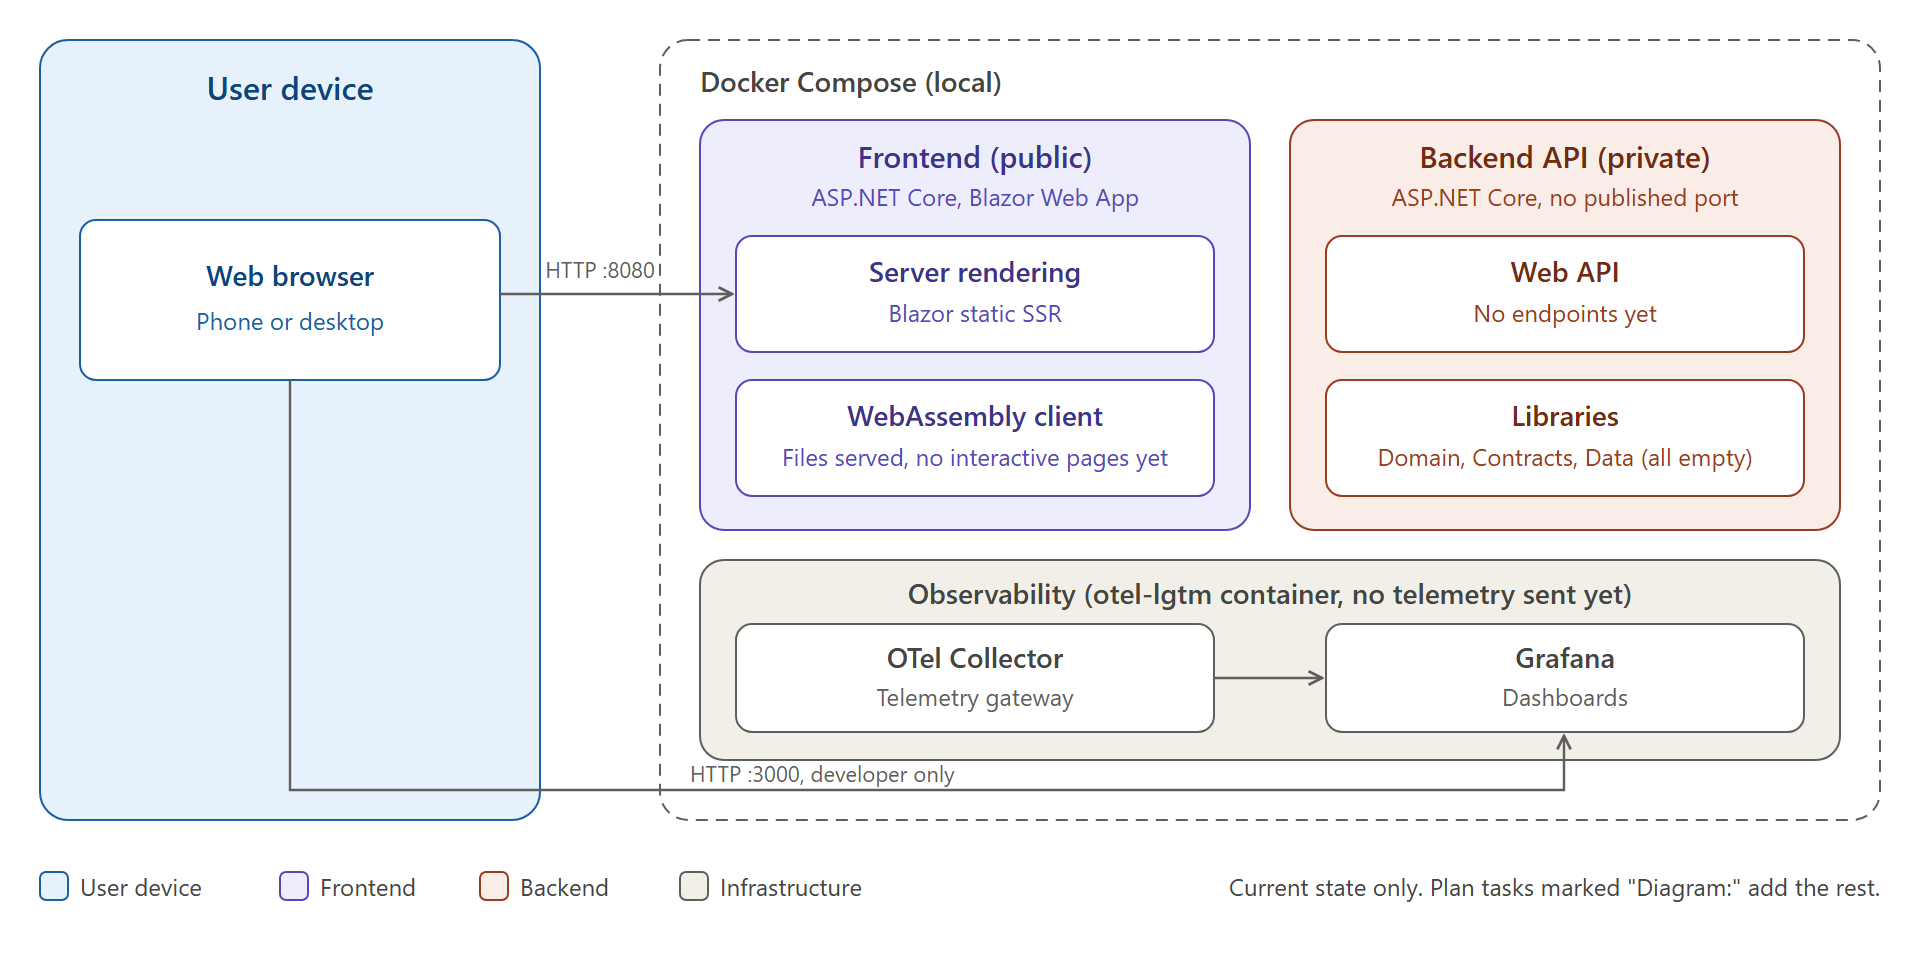
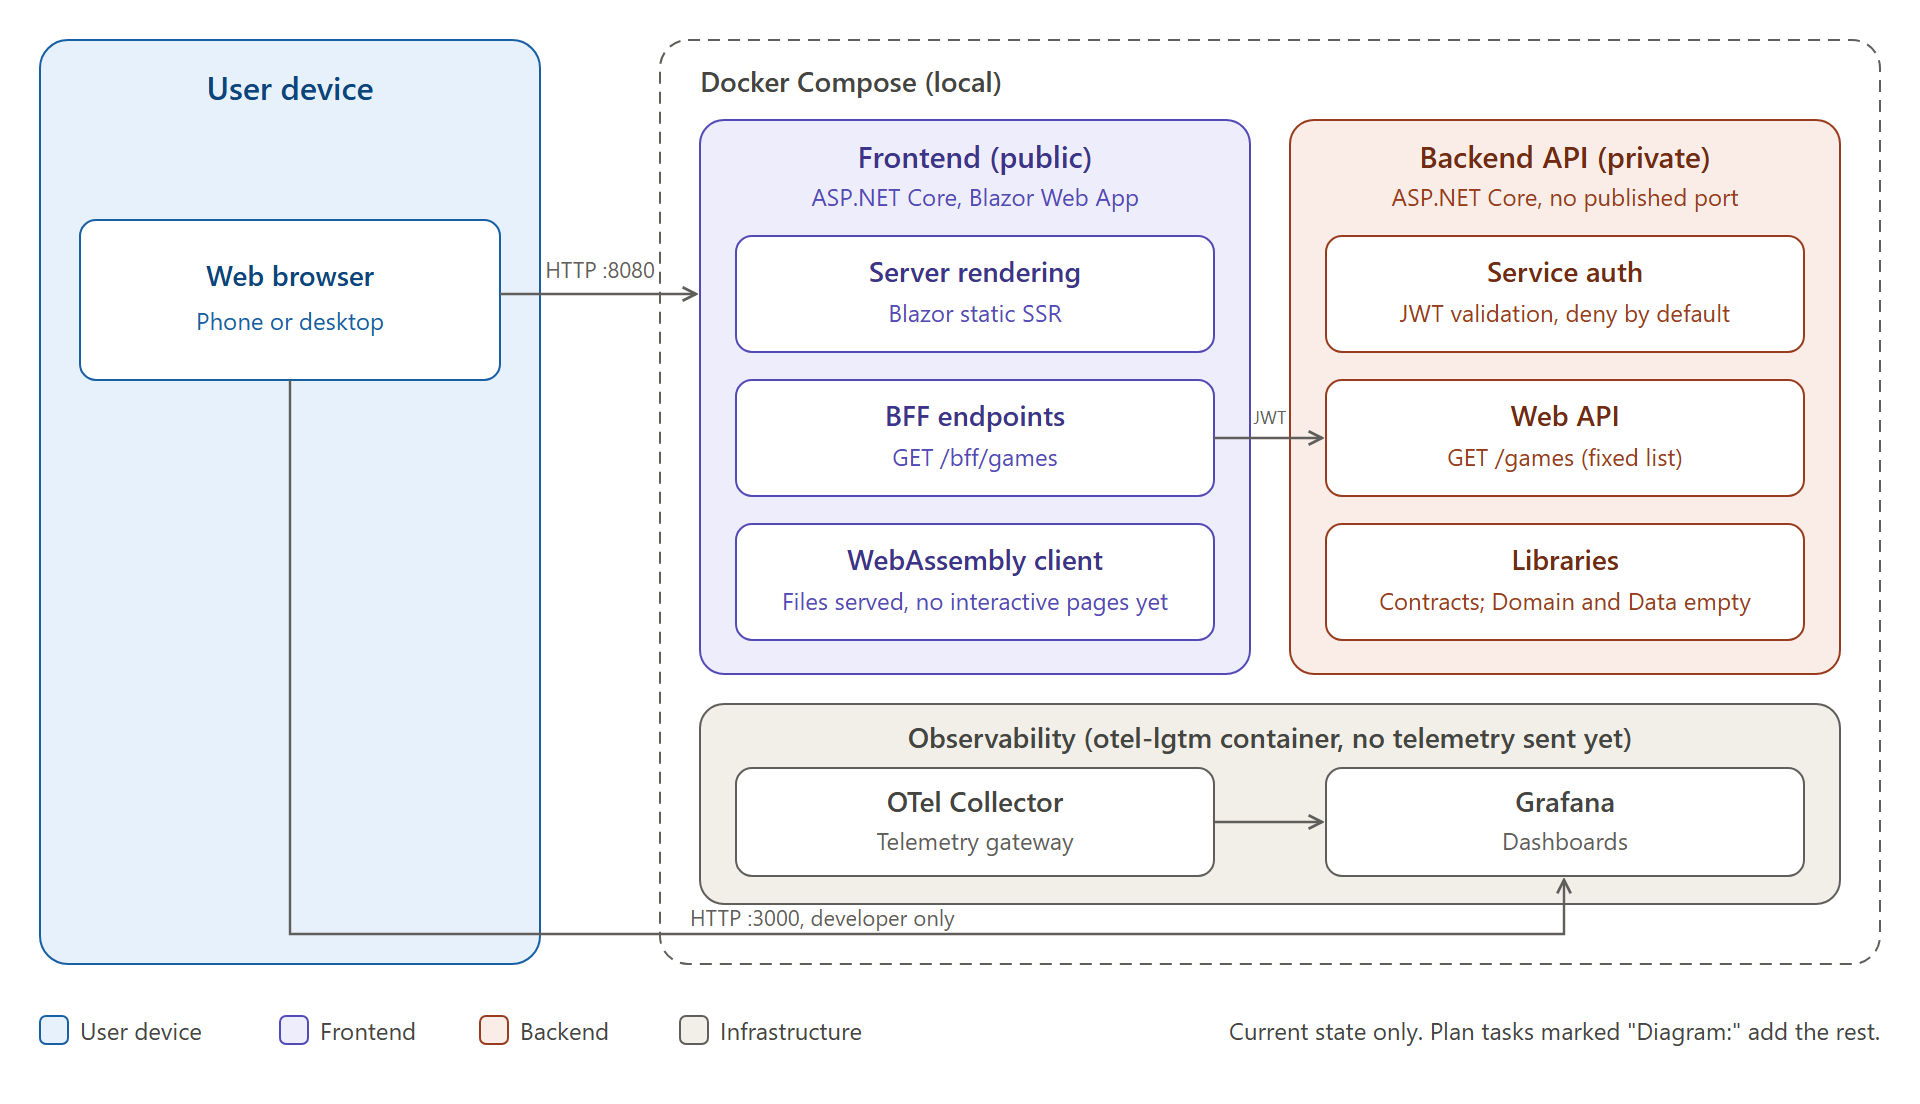
docs: update architecture diagram (P0.5.7) (#23)

diff --git a/docs/04-development-plan.md b/docs/04-development-plan.md
@@ -57,7 +57,7 @@ Estimates assume part-time work and are rough.
 - [x] P0.5.4 BFF: `GET /bff/games` forwarding to the backend.
 - [x] P0.5.5 BFF: error mapping (ProblemDetails).
 - [x] P0.5.6 Prove `GET /bff/games` works end to end in Docker.
-- [ ] P0.5.7 Diagram: add the JWT service token link, BFF endpoints and the first backend endpoint.
+- [x] P0.5.7 Diagram: add the JWT service token link, BFF endpoints and the first backend endpoint.
 
 ### P0.6 Seed data
 - P0.6.1 Moved to P5.0.1 (see [ADR 0013](adr/0013-game-data-in-memory.md)).
@@ -124,7 +124,7 @@ Estimates assume part-time work and are rough.
 - [ ] P1.1.4 Items endpoint (contract and backend).
 - [ ] P1.1.5 BFF endpoints for the WebAssembly client.
 - [ ] P1.1.6 Output caching of public game data in the frontend.
-- [ ] P1.1.7 Diagram: remove "No endpoints yet" and "all empty" labels that are no longer true.
+- [ ] P1.1.7 Diagram: update the endpoint labels.
 
 ### P1.2 Public pages (static SSR)
 - [ ] P1.2.1 Game list page, with a friendly error state when data cannot load.
